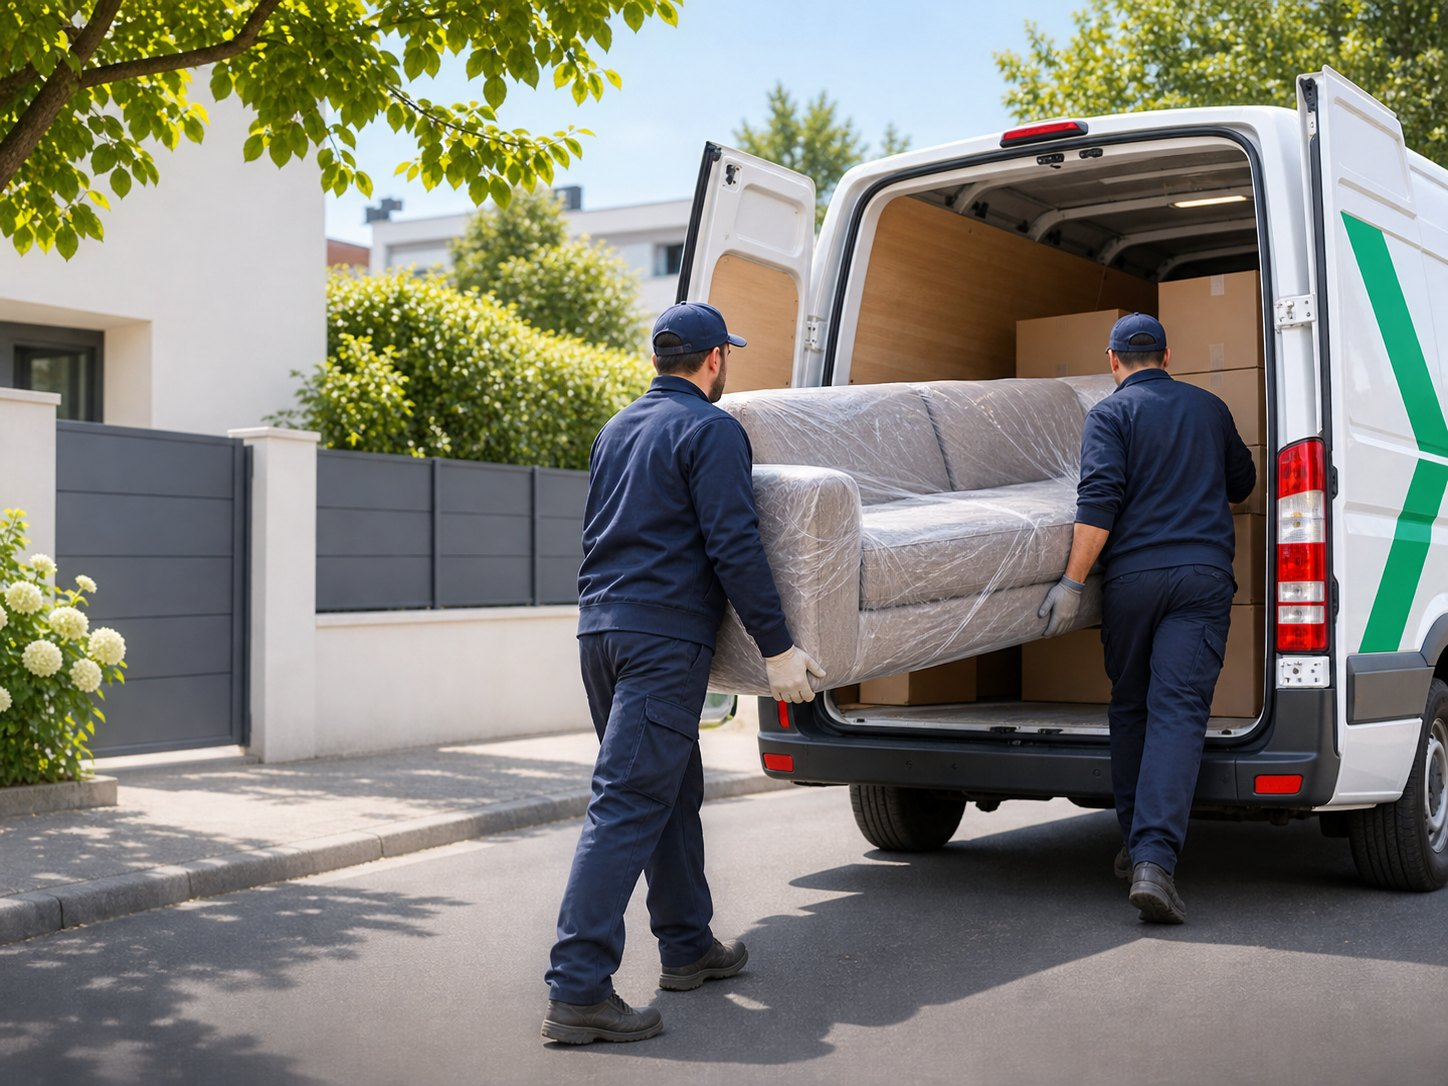
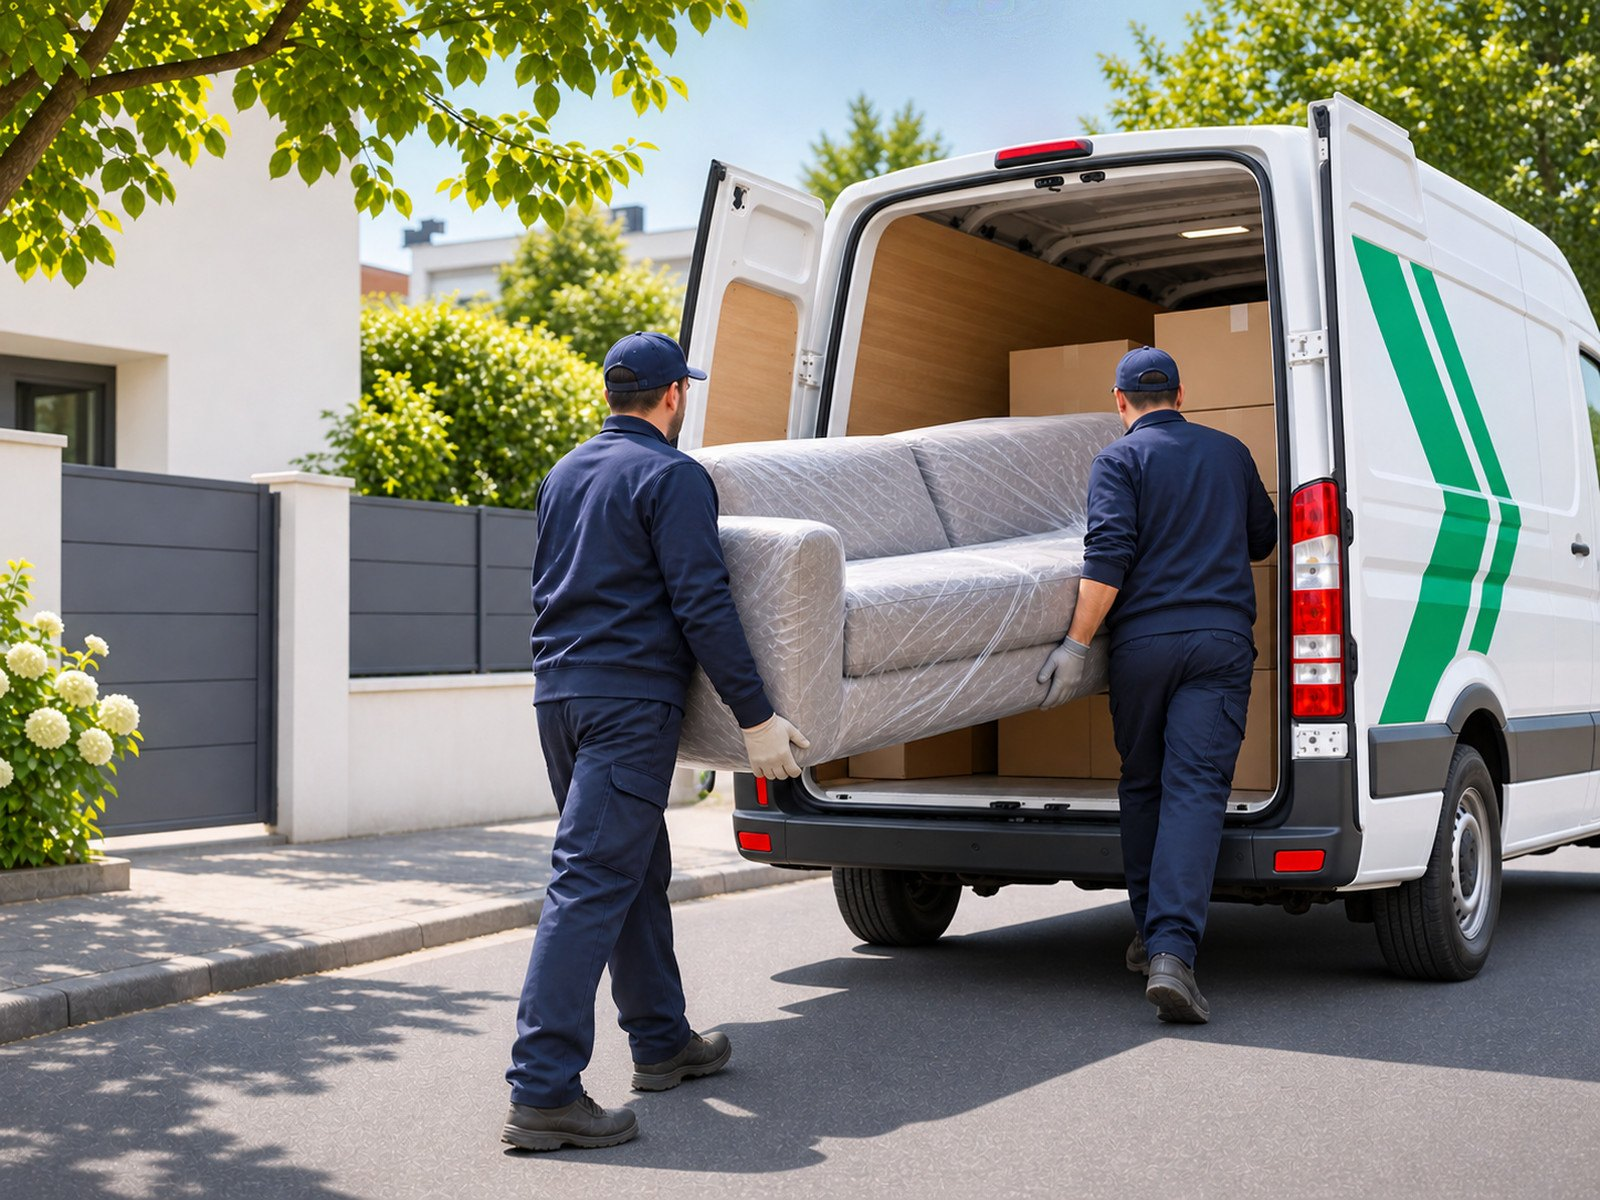
feat(assets): higher-resolution renders, loads and pictos from the delivered archive (best of both sources)
Claude-Session: https://claude.ai/code/session_01V6DkyBhUBPrSw3zkEEY5Ea

diff --git a/src/components/VehicleImage.tsx b/src/components/VehicleImage.tsx
@@ -1,18 +1,18 @@
 import Image from "next/image";
 import { TruckIcon } from "@/components/TruckIcon";
 
-/** Les rendus des 4 utilitaires livrés le 02/11/2026, indexés par m² ; repli sur la silhouette vectorielle. */
+/** Les rendus des 4 utilitaires (livraison du 02/11/2026, 900 px), indexés par m² ; repli sur la silhouette vectorielle. */
 const RENDUS: Record<number, { src: string; w: number; h: number }> = {
-  1: { src: "/images/camions/camion-1m2.webp", w: 303, h: 193 },
-  2: { src: "/images/camions/camion-2m2.webp", w: 341, h: 199 },
-  4: { src: "/images/camions/camion-4m2.webp", w: 379, h: 240 },
-  8: { src: "/images/camions/camion-8m2.webp", w: 423, h: 265 },
+  1: { src: "/images/camions/camion-1m2.webp", w: 900, h: 553 },
+  2: { src: "/images/camions/camion-2m2.webp", w: 900, h: 506 },
+  4: { src: "/images/camions/camion-4m2.webp", w: 900, h: 579 },
+  8: { src: "/images/camions/camion-8m2.webp", w: 900, h: 588 },
 };
 export const CHARGES: Record<number, { src: string; w: number; h: number }> = {
-  1: { src: "/images/charges/charge-1m2.webp", w: 279, h: 190 },
-  2: { src: "/images/charges/charge-2m2.webp", w: 336, h: 140 },
-  4: { src: "/images/charges/charge-4m2.webp", w: 395, h: 200 },
-  8: { src: "/images/charges/charge-8m2.webp", w: 430, h: 210 },
+  1: { src: "/images/charges/charge-1m2.webp", w: 800, h: 531 },
+  2: { src: "/images/charges/charge-2m2.webp", w: 800, h: 466 },
+  4: { src: "/images/charges/charge-4m2.webp", w: 800, h: 446 },
+  8: { src: "/images/charges/charge-8m2.webp", w: 800, h: 435 },
 };
 
 export function VehicleImage({ surfaceM2, ordre, className = "", sizes = "(min-width: 1024px) 260px, 45vw", priority = false }: { surfaceM2: number | null | undefined; ordre?: number | null; className?: string; sizes?: string; priority?: boolean }) {
